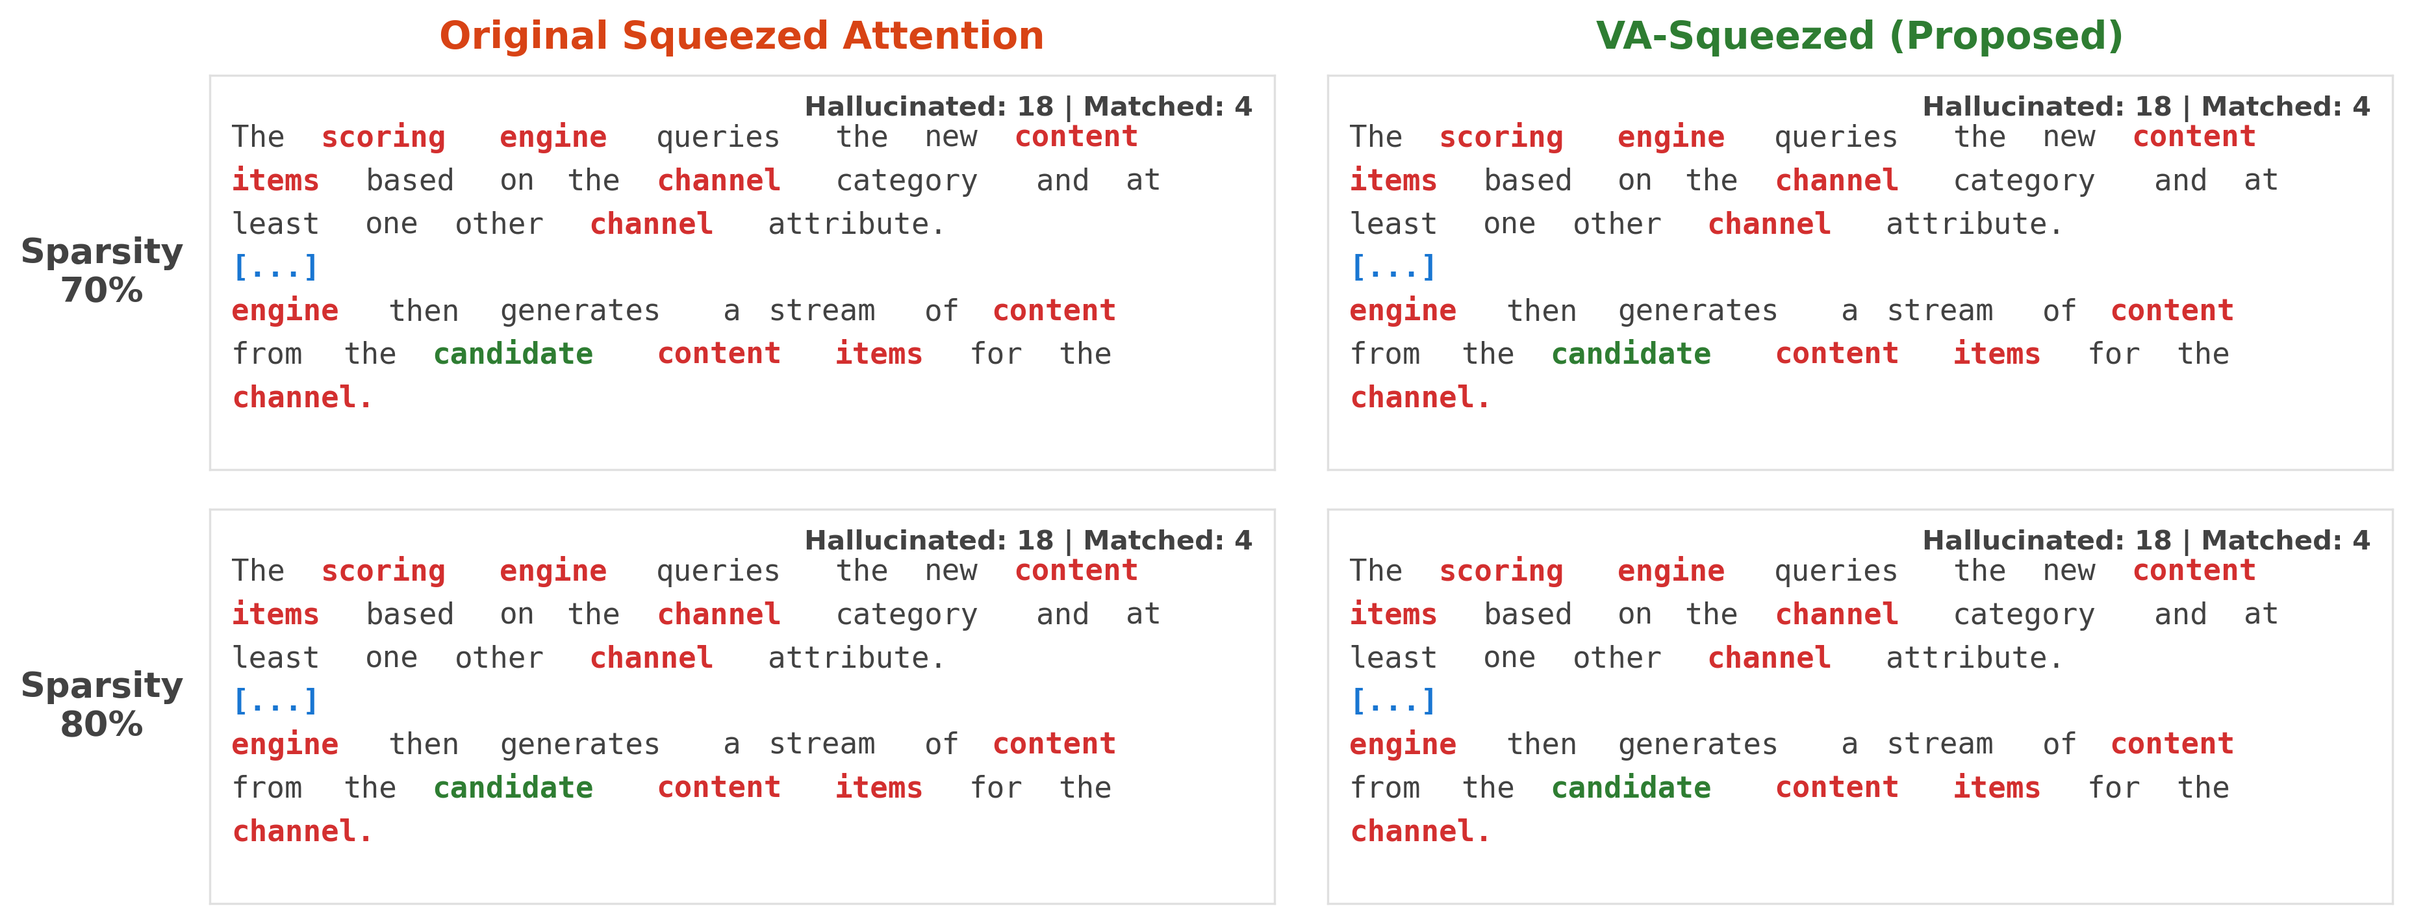
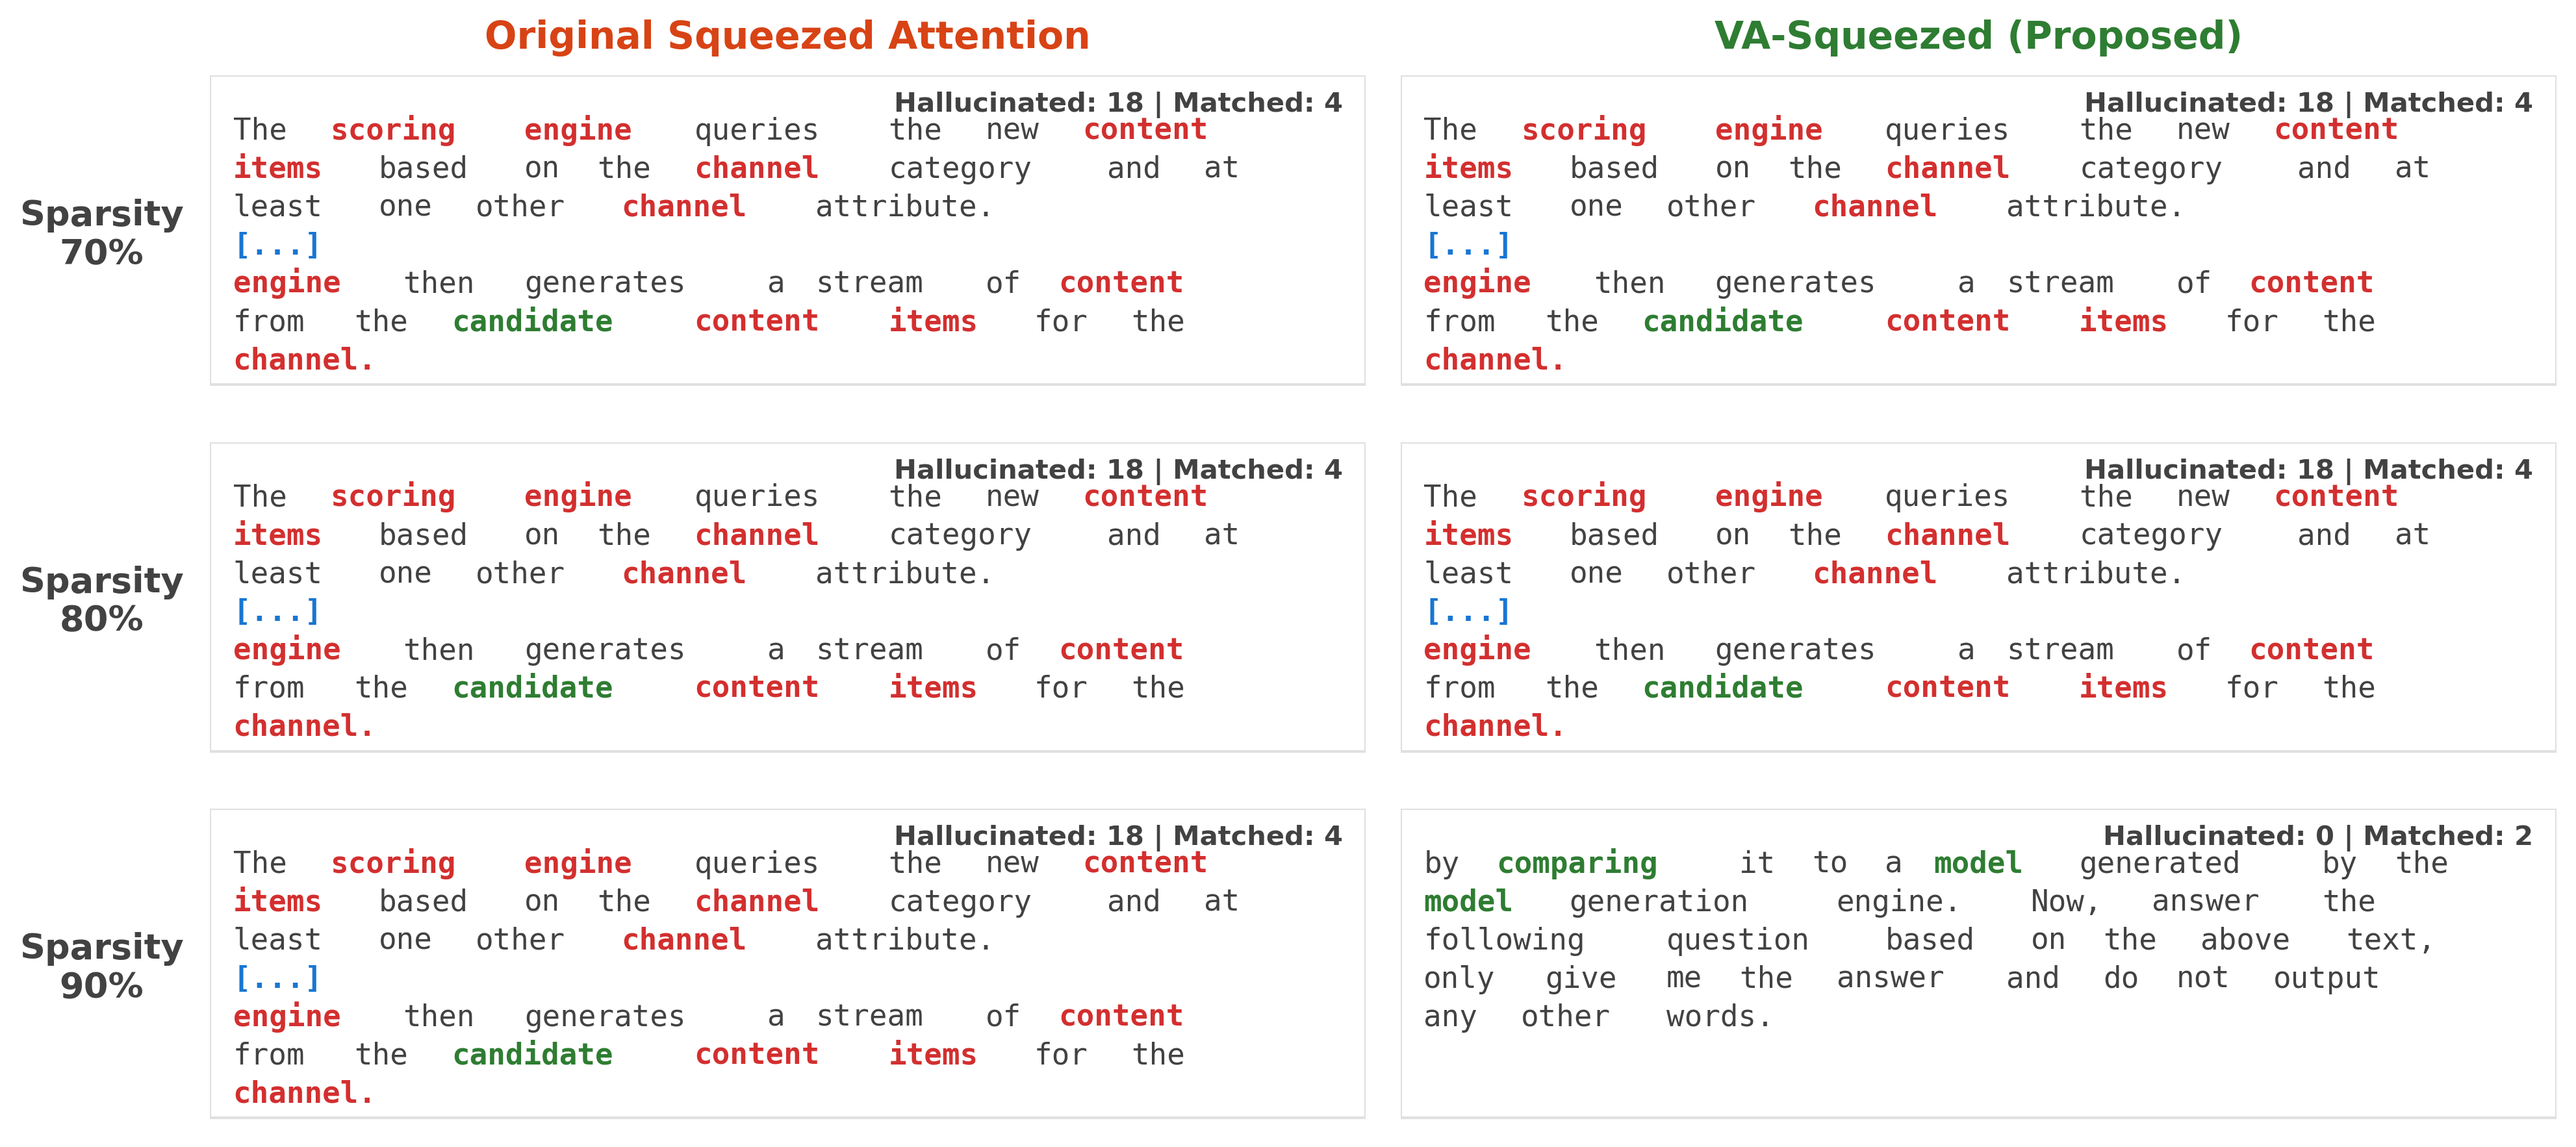
update picture 2

diff --git a/SqueezedAttention-main/plot_quantilative_image.py b/SqueezedAttention-main/plot_quantilative_image.py
@@ -132,8 +132,8 @@ def process_dataset(DATASET):
     print(f"Đã chọn mẫu câu số #{best_index} của {DATASET} để vẽ hình.")
 
     # --- VẼ ĐỒ THỊ VĂN BẢN (TEXT IMAGE) BẰNG MATPLOTLIB ---
-    plot_percentiles = ["0.7", "0.8"]
-    fig, axs = plt.subplots(len(plot_percentiles), 2, figsize=(14, 5.0)) # Tăng nhẹ chiều cao để bao hết chữ
+    plot_percentiles = ["0.7", "0.8", "0.9"]
+    fig, axs = plt.subplots(len(plot_percentiles), 2, figsize=(14, 6.0)) # Đủ chiều cao để không bị tràn chữ
     # Rút ngắn tiêu đề Ground Truth nếu quá dài
     display_ans = ans[0] if len(ans[0]) < 100 else ans[0][:100] + "..."
 
@@ -143,9 +143,9 @@ def process_dataset(DATASET):
     for ax in axs.flat:
         ax.set_xticks([])
         ax.set_yticks([])
-        # Tạo màu viền nhẹ
+        # Tắt viền cứng mặc định để vẽ viền động ôm sát chữ
         for spine in ax.spines.values():
-            spine.set_edgecolor('#E0E0E0')
+            spine.set_visible(False)
 
     # Tiêu đề cột
     axs[0, 0].set_title("Original Squeezed Attention", fontsize=14, fontweight='bold', color='#D84315', pad=10)
@@ -157,10 +157,10 @@ def process_dataset(DATASET):
         ax.text(0.98, 0.95, stat_text, ha='right', va='top', fontsize=10, fontweight='bold', color='#424242')
         
         # Thiết lập tọa độ ban đầu
-        char_width = 0.021  # Tỉ lệ chiều rộng 1 ký tự so với khung hình
-        line_height = 0.11  # Thu nhỏ khoảng cách dòng để không bị tràn đáy khung
+        char_width = 0.021  
+        line_height = 0.12  # Trả lại khoảng cách dòng bình thường
         current_x = 0.02
-        current_y = 0.82
+        current_y = 0.80    
         
         for word, color in tokens:
             if word == "\n[...]\n":
@@ -178,6 +178,8 @@ def process_dataset(DATASET):
             # Các token tiếng Anh dùng monospace bình thường
             ax.text(current_x, current_y, word, color=color, family='monospace', fontsize=11, fontweight='bold' if color != '#424242' else 'normal')
             current_x += (len(word) + 1) * char_width # +1 cho khoảng trắng ảo
+            
+        return current_y
 
     for i, perc in enumerate(plot_percentiles):
         # Tiêu đề hàng (Mức nén)
@@ -190,15 +192,28 @@ def process_dataset(DATASET):
         sq_res = evaluate_and_format(all_sq[perc][best_index]['pred'], ans)
         va_res = evaluate_and_format(all_va[perc][best_index]['pred'], ans)
         
-        # Vẽ chữ cho SQ
-        draw_colored_text_monospace(axs[i, 0], sq_res['tokens'], sq_res['hal'], sq_res['mat'])
+        import matplotlib.patches as patches
         
-        # Vẽ chữ cho VA
-        draw_colored_text_monospace(axs[i, 1], va_res['tokens'], va_res['hal'], va_res['mat'])
+        # Lấy tọa độ Y kết thúc của chữ cho SQ và VA
+        y_sq = draw_colored_text_monospace(axs[i, 0], sq_res['tokens'], sq_res['hal'], sq_res['mat'])
+        y_va = draw_colored_text_monospace(axs[i, 1], va_res['tokens'], va_res['hal'], va_res['mat'])
+        
+        # Tìm giới hạn dưới cùng để hai khung bằng nhau nhưng vẫn ít khoảng trắng nhất có thể
+        min_y = min(y_sq, y_va) - 0.05
+        
+        # Vẽ viền ôm khít chữ cho SQ (dùng chung chiều cao min_y)
+        rect_sq = patches.Rectangle((0, min_y), 1.0, 1.0 - min_y, linewidth=1, edgecolor='#E0E0E0', facecolor='none')
+        axs[i, 0].add_patch(rect_sq)
+        
+        # Vẽ viền ôm khít chữ cho VA (dùng chung chiều cao min_y)
+        rect_va = patches.Rectangle((0, min_y), 1.0, 1.0 - min_y, linewidth=1, edgecolor='#E0E0E0', facecolor='none')
+        axs[i, 1].add_patch(rect_va)
+
+
 
     # Bỏ ghi chú học thuật để hình gọn nhất có thể theo yêu cầu
 
-    plt.subplots_adjust(left=0.15, right=0.95, top=0.90, bottom=0.05, hspace=0.1, wspace=0.05)
+    plt.subplots_adjust(left=0.12, right=0.98, top=0.92, bottom=0.02, hspace=0.15, wspace=0.03)
     output_file = f"qualitative_examples_{DATASET}_cropped.png"
     plt.savefig(output_file, dpi=300, bbox_inches='tight')
     plt.close(fig)

diff --git a/SqueezedAttention-main/benchmark_latency.py b/SqueezedAttention-main/benchmark_latency.py
@@ -29,11 +29,11 @@ import warnings
 warnings.filterwarnings("ignore")
 
 # CẤU HÌNH
-DATASET_NAME = "gov_report" # Tập có context dài nhất trong LongBench (tối đa ~32k)
+DATASET_NAME = "qasper" # Sử dụng qasper vì đã có sẵn file cụm (clusters)
 NUM_SAMPLES = 10
 MAX_NEW_TOKENS = 10         # Sinh ra 10 token để đo generation latency
-MODEL_PATH = "NousResearch/Llama-2-7b-chat-hf" # Thay đổi thành đường dẫn model thực tế của bạn
-# CHÚ Ý: Bạn cần trỏ đúng thư mục đã chạy gom cụm (offline clustering) cho dataset này
+MODEL_PATH = "/home/mtahackathon/models/LLaMA-2-7B-32K" # Đường dẫn model của bạn
+# CHÚ Ý: Đảm bảo thư mục này chứa file cụm (clusters) tương ứng với dataset gov_report
 CLUSTER_PATH = f"../value_aware_squeezed_project/Clusters-VA/{DATASET_NAME}/" 
 
 def load_model(path, is_baseline=True, percentile=0.7):
@@ -145,15 +145,35 @@ def main():
         prefill_times = []
         gen_times = []
         
-        for sample in tqdm(samples, desc=conf['name']):
-            prompt = prompt_format.format(**sample)
-            # Khởi tạo Input
-            input_ids = tokenizer(prompt, return_tensors="pt").input_ids.to("cuda:0")
+        from squeezedattention.utils import truncate_fn
+
+        for i, sample in enumerate(tqdm(samples, desc=conf['name'])):
+            prompt_raw = prompt_format.format(**sample)
             
-            # Nếu bộ nhớ GPU (VRAM) không đủ, ta cắt bớt context xuống 16k hoặc 24k token
-            # Ở đây tôi giới hạn tối đa 24k để chạy vừa trên các loại GPU 24GB thông thường
-            if input_ids.shape[1] > 24000:
-                input_ids = input_ids[:, -24000:]
+            # Lấy prompt_noquery_raw (phần ngữ cảnh không chứa câu hỏi) để chia prefix theo logic Squeezed Attention
+            try:
+                with open("LongBench/config/dataset2prompt.json", "r") as f:
+                    d2p = json.load(f)
+                    prompt_noquery_raw = d2p.get(f"{DATASET_NAME}_prompt", "{context}\n\n").format(**sample)
+            except:
+                prompt_noquery_raw = "{context}\n\n"
+            
+            # Cắt bớt context xuống 1024 token (1K Input Length như trong paper)
+            # Điều này cực kỳ quan trọng vì GPU 16GB của bạn sẽ bị OOM nếu chạy FP16 với context > 3000
+            max_length = 1024 
+            
+            # Sử dụng hàm truncate_fn chuẩn của project để tính toán shared_prefix_length
+            prompt, truncated_shared_prefix_length = truncate_fn(
+                prompt_raw, prompt_noquery_raw, tokenizer, max_length, DATASET_NAME, "cuda:0"
+            )
+            
+            # BẮT BUỘC: Truyền 2 tham số này vào LlamaModel để Squeezed Attention không bị crash hoặc load sai file
+            if hasattr(model, "model"):
+                model.model.shared_prefix_length = truncated_shared_prefix_length
+                model.model.different_prefix_index = sample.get('different_prefix_index', i)
+            
+            # Khởi tạo Input
+            input_ids = tokenizer(prompt, truncation=False, return_tensors="pt").input_ids.to("cuda:0")
                 
             p_time, g_time = get_latency(model, input_ids, max_gen=MAX_NEW_TOKENS)
             prefill_times.append(p_time)
